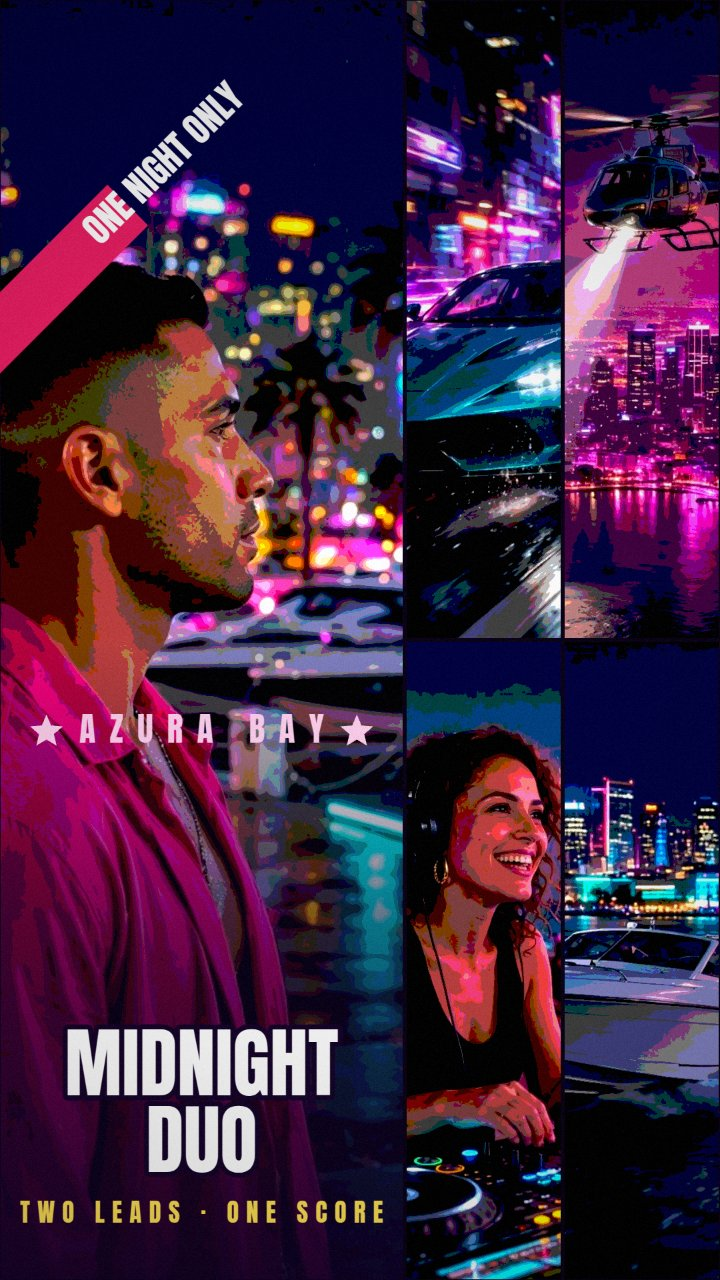
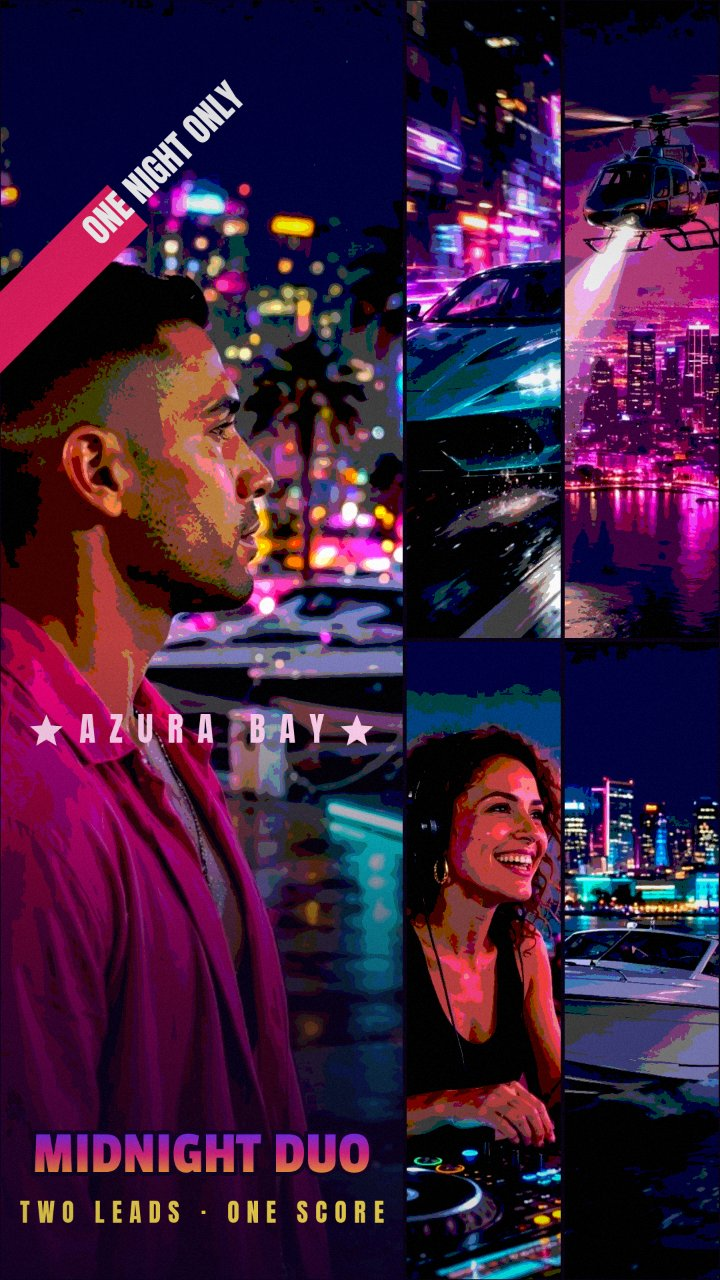
gta6-cover-art-01: Passion One gradient title (Version D final)

diff --git a/app/src/cover.js b/app/src/cover.js
@@ -30,6 +30,7 @@ export async function ensureFonts() {
     await Promise.all([
       document.fonts.load('100px Anton'),
       document.fonts.load('40px Pacifico'),
+      document.fonts.load('100px "Passion One"'),
       document.fonts.ready,
     ]);
   } catch (err) {
@@ -171,12 +172,36 @@ function paintPanel(ctx, photo, rect, grade) {
   ctx.restore();
 }
 
+// Sunset-gradient title fill (GTA VI logo treatment): vertical gradient
+// violet -> magenta -> orange over the glyphs, under a heavy ink outline.
+// Draws with an alphabetic baseline at (cx, y); `size` is the font size.
+function paintGradientTitle(ctx, text, cx, y, size) {
+  ctx.font = `${size}px "Passion One", sans-serif`;
+  ctx.textAlign = 'center';
+  ctx.textBaseline = 'alphabetic';
+  ctx.lineJoin = 'round';
+  const m = ctx.measureText(text);
+  const top = y - (m.actualBoundingBoxAscent || size * 0.72);
+  const bottom = y + (m.actualBoundingBoxDescent || size * 0.2);
+  const grad = ctx.createLinearGradient(0, top, 0, bottom);
+  grad.addColorStop(0, '#7b2ff7');
+  grad.addColorStop(0.5, '#e0218a');
+  grad.addColorStop(1, '#ff9a3d');
+  ctx.strokeStyle = INK_OUTLINE;
+  ctx.lineWidth = Math.max(4, size * 0.13);
+  ctx.strokeText(text, cx, y);
+  ctx.fillStyle = grad;
+  ctx.fillText(text, cx, y);
+}
+
 // The Version D title block: hero-local dark scrim, city line flanked by
-// drawn stars, stacked MIDNIGHT / DUO, yellow tagline underneath.
+// drawn stars, ONE-LINE "MIDNIGHT DUO" in Passion One with the sunset
+// gradient, yellow tagline underneath.
 function paintBandTitle(ctx, state, w, h, hero) {
   const rect = titleRect('band', w, h);
   // Scrim: transparent at the top of the block, deep violet-black at the
-  // bottom, hero width only — the right panels stay untouched.
+  // bottom, hero width only — the right panels stay untouched. The visible
+  // dark starts at ~73% of the height (0.45 through the block).
   const scrim = ctx.createLinearGradient(0, rect.y, 0, h);
   scrim.addColorStop(0, 'rgba(16,2,40,0)');
   scrim.addColorStop(0.45, 'rgba(16,2,40,0.55)');
@@ -185,11 +210,7 @@ function paintBandTitle(ctx, state, w, h, hero) {
   ctx.fillRect(hero.x, rect.y, hero.w, h - rect.y);
 
   const caption = (state.caption || 'MIDNIGHT DUO').toUpperCase();
-  const words = caption.split(/\s+/).filter(Boolean);
-  const line1 = words[0] || 'MIDNIGHT';
-  const line2 = words.slice(1).join(' ') || 'DUO';
-  const maxW = hero.w * 0.88;
-  const base = Math.min(hero.w * 0.19, h * 0.16);
+  const maxW = hero.w * 0.85;
 
   const city = (state.city || 'AZURA BAY').toUpperCase();
   const citySize = Math.max(14, Math.round(h * 0.026));
@@ -199,29 +220,18 @@ function paintBandTitle(ctx, state, w, h, hero) {
   drawStar(ctx, hero.x + hero.w / 2 - cityW / 2 - starR * 1.9, cityY - citySize * 0.32, starR, CITY_PINK);
   drawStar(ctx, hero.x + hero.w / 2 + cityW / 2 + starR * 1.9, cityY - citySize * 0.32, starR, CITY_PINK);
 
-  const size1 = fitSize(ctx, line1, base, maxW, 'Anton, sans-serif');
-  const size2 = fitSize(ctx, line2, base, maxW, 'Anton, sans-serif');
   // Anchor the block from the bottom up so the tagline never falls off
-  // the canvas: tagline near the bottom edge, two title lines above it,
-  // city line above those. Size is capped by the vertical room as well
-  // as by the hero width.
+  // the canvas: tagline near the bottom edge, one title line above it,
+  // city line above that. Size is capped by the hero width (~85%) as well
+  // as by the vertical room between the city line and the tagline.
   const tagSize = Math.max(12, Math.round(h * 0.02));
   const tagY = Math.round(h * 0.955);
-  const size = Math.min(size1, size2, Math.floor((tagY - cityY) / 2.75));
-  const lineH = size * 1.0;
-  const line2Base = tagY - tagSize * 2.0;
-  const line1Base = line2Base - lineH;
-  ctx.textAlign = 'center';
-  ctx.textBaseline = 'alphabetic';
-  ctx.lineJoin = 'round';
-  ctx.font = `${size}px Anton, sans-serif`;
-  ctx.strokeStyle = INK_OUTLINE;
-  ctx.lineWidth = Math.max(4, size * 0.13);
-  ctx.strokeText(line1, hero.x + hero.w / 2, line1Base);
-  ctx.fillStyle = '#ffffff';
-  ctx.fillText(line1, hero.x + hero.w / 2, line1Base);
-  ctx.strokeText(line2, hero.x + hero.w / 2, line2Base);
-  ctx.fillText(line2, hero.x + hero.w / 2, line2Base);
+  const titleBase = tagY - tagSize * 2.0;
+  const base = Math.min(hero.w * 0.19, h * 0.16);
+  let size = fitSize(ctx, caption, base, maxW, '"Passion One", sans-serif');
+  const vRoom = titleBase - cityY - citySize * 0.5;
+  size = Math.min(size, Math.floor(vRoom / 0.95));
+  paintGradientTitle(ctx, caption, hero.x + hero.w / 2, titleBase, size);
 
   const tag = (state.subtitle || 'Two leads · One score').toUpperCase();
   // Shrink the tagline until its tracked width fits the hero (narrow
@@ -247,20 +257,16 @@ function paintCentreTitle(ctx, state, w, h) {
   ctx.fillStyle = grad;
   ctx.fillRect(rect.x, rect.y, rect.w, rect.h);
   const caption = (state.caption || 'MIDNIGHT DUO').toUpperCase();
-  const size = fitSize(ctx, caption, rect.w * 0.2, rect.w * 0.9, 'Anton, sans-serif');
-  ctx.font = `${size}px Anton, sans-serif`;
-  ctx.textAlign = 'center';
-  ctx.textBaseline = 'middle';
-  ctx.lineJoin = 'round';
-  ctx.strokeStyle = INK_OUTLINE;
-  ctx.lineWidth = Math.max(3, size * 0.12);
-  ctx.strokeText(caption, rect.x + rect.w / 2, rect.y + rect.h * 0.44);
-  ctx.fillStyle = '#ffffff';
-  ctx.fillText(caption, rect.x + rect.w / 2, rect.y + rect.h * 0.44);
+  const size = fitSize(ctx, caption, rect.w * 0.2, rect.w * 0.9, '"Passion One", sans-serif');
+  // Same Passion One sunset-gradient treatment as the band title; the
+  // middle-baseline centre is converted to an alphabetic baseline.
+  paintGradientTitle(ctx, caption, rect.x + rect.w / 2, rect.y + rect.h * 0.44 + size * 0.36, size);
   const sub = state.subtitle || '';
   if (sub) {
     const subSize = Math.max(10, Math.round(rect.h * 0.09));
     ctx.font = `${subSize}px Pacifico, cursive`;
+    ctx.textAlign = 'center';
+    ctx.textBaseline = 'middle';
     ctx.fillStyle = TAG_YELLOW;
     ctx.fillText(sub, rect.x + rect.w / 2, rect.y + rect.h * 0.74);
   }
@@ -275,16 +281,9 @@ function paintBottomBand(ctx, state, w, h) {
   ctx.fillStyle = grad;
   ctx.fillRect(rect.x, rect.y, rect.w, rect.h);
   const caption = (state.caption || 'MIDNIGHT DUO').toUpperCase();
-  const size = fitSize(ctx, caption, rect.h * 0.5, rect.w * 0.9, 'Anton, sans-serif');
-  ctx.font = `${size}px Anton, sans-serif`;
-  ctx.textAlign = 'center';
-  ctx.textBaseline = 'middle';
-  ctx.lineJoin = 'round';
-  ctx.strokeStyle = INK_OUTLINE;
-  ctx.lineWidth = Math.max(3, size * 0.12);
-  ctx.strokeText(caption, rect.x + rect.w / 2, rect.y + rect.h * 0.46);
-  ctx.fillStyle = '#ffffff';
-  ctx.fillText(caption, rect.x + rect.w / 2, rect.y + rect.h * 0.46);
+  const size = fitSize(ctx, caption, rect.h * 0.5, rect.w * 0.9, '"Passion One", sans-serif');
+  // Same Passion One sunset-gradient treatment as the band title.
+  paintGradientTitle(ctx, caption, rect.x + rect.w / 2, rect.y + rect.h * 0.46 + size * 0.36, size);
   const tag = (state.subtitle || '').toUpperCase();
   if (tag) {
     drawTracked(ctx, tag, rect.x + rect.w / 2, rect.y + rect.h * 0.82, size * 0.08, 'Anton, sans-serif', Math.max(10, size * 0.22), TAG_YELLOW, null, 0);
@@ -363,19 +362,12 @@ export function drawCover(ctx, state, w, h) {
     ctx.fillRect(-w, -bandH / 2, w * 2, bandH);
     ctx.restore();
     const caption = (state.caption || 'MIDNIGHT DUO').toUpperCase();
-    const size = fitSize(ctx, caption, bandH * 0.7, w * 0.7, 'Anton, sans-serif');
+    const size = fitSize(ctx, caption, bandH * 0.7, w * 0.7, '"Passion One", sans-serif');
     ctx.save();
     ctx.translate(w / 2, h / 2);
     ctx.rotate(-0.12);
-    ctx.font = `${size}px Anton, sans-serif`;
-    ctx.textAlign = 'center';
-    ctx.textBaseline = 'middle';
-    ctx.lineJoin = 'round';
-    ctx.strokeStyle = INK_OUTLINE;
-    ctx.lineWidth = Math.max(3, size * 0.12);
-    ctx.strokeText(caption, 0, 0);
-    ctx.fillStyle = '#ffffff';
-    ctx.fillText(caption, 0, 0);
+    // Same Passion One sunset-gradient treatment as the band title.
+    paintGradientTitle(ctx, caption, 0, size * 0.36, size);
     ctx.restore();
   } else if (layout === 'strip') {
     drawStarburst(ctx, w * 0.5, h * 0.5, Math.max(30, h * 0.08), (state.caption || 'MIDNIGHT').split(' ')[0], 'DUO');

diff --git a/app/index.html b/app/index.html
@@ -8,6 +8,7 @@
 <style>
   @font-face { font-family: 'Anton'; src: url('fonts/Anton-Regular.ttf') format('truetype'); font-display: swap; }
   @font-face { font-family: 'Pacifico'; src: url('fonts/Pacifico-Regular.ttf') format('truetype'); font-display: swap; }
+  @font-face { font-family: 'Passion One'; src: url('fonts/PassionOne.ttf') format('truetype'); font-display: swap; }
 </style>
 </head>
 <body>
@@ -70,7 +71,7 @@
 <footer class="foot">
   <p>Midnight Duo — a cover maker for the make.fun bounty
     <a href="https://make.fun/bounty/gta6-cover-art-01">gta6-cover-art-01</a>.
-    Fully offline: your photos never leave this page. Fonts: Anton + Pacifico (SIL OFL).</p>
+    Fully offline: your photos never leave this page. Fonts: Anton + Pacifico + Passion One (SIL OFL).</p>
 </footer>
 
 <script type="module" src="src/main.js"></script>
